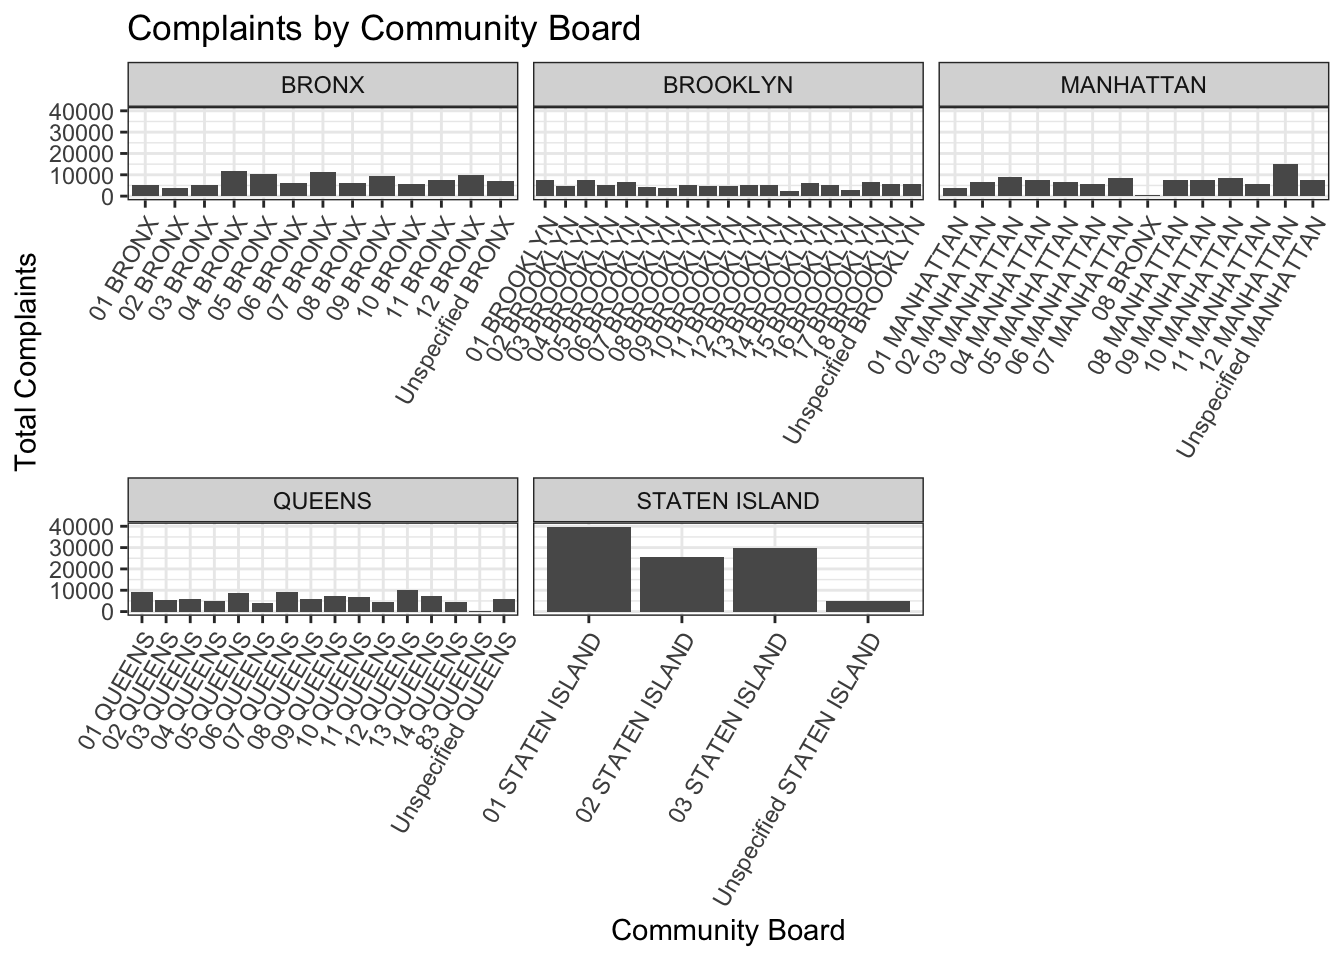
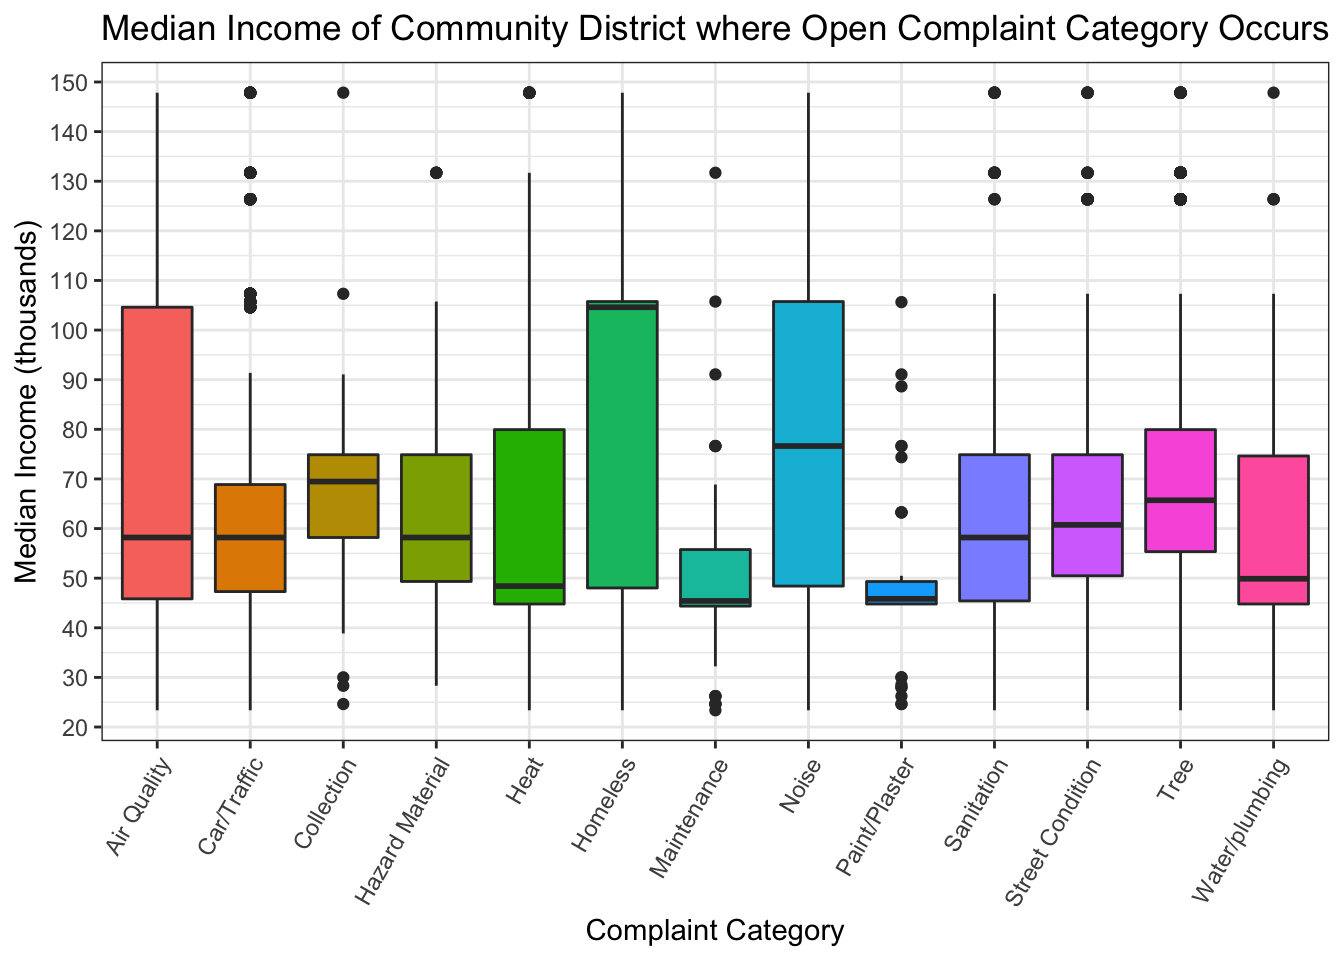
MM - added proportion open vs percent pop figure.

diff --git a/descript_stats_plots.html b/descript_stats_plots.html
@@ -438,7 +438,7 @@ $(document).ready(function () {
 <p>Key variables include: <code>year</code>, <code>borough</code>, <code>community_board</code>, <code>complaint_type</code>, and <code>status</code>.</p>
 <p>Newly added variables include:</p>
 <ol style="list-style-type: decimal">
-<li><p><code>complaint_simp</code> - based on key words, condenses complaint types into the following categories:’</p></li>
+<li><p><code>complaint_simp</code> - based on key words, condenses complaint types into the following categories: Air Quality, Car/Traffic, Collection, Hazard Material, Heat, Homeless, Maintenance, Noise, Paint/Plaster, Sanitation, Street Condition, Tree, and Water/plumbing.</p></li>
 <li><p><code>health_complaint</code> - binary yes (1) or no (0), based on health associated categories within <code>complaint_simp</code>.</p></li>
 <li><p><code>open_health_complaint</code> - binary categorization, either health complaint that is open (1), or non-health related complaint or closed health complaint (0).</p></li>
 <li><p><code>open_complaint</code> - binary categorization, closed <code>status</code> (0), open (1)</p></li>
@@ -506,8 +506,8 @@ $(document).ready(function () {
 </div>
 <div id="plots" class="section level1">
 <h1>Plots</h1>
-<div id="total-number-of-complaints-by-income-bracket" class="section level2">
-<h2>Total number of complaints by income bracket</h2>
+<div id="total-number-of-complaints-by-income-bracket" class="section level4">
+<h4>Total number of complaints by income bracket</h4>
 <pre class="r"><code># nyc_plots %&gt;% 
 #     filter(!is.na(income_bracket)) %&gt;% 
 #     group_by(income_bracket) %&gt;% 
@@ -533,9 +533,8 @@ nyc_plots %&gt;%
 <p><img src="descript_stats_plots_files/figure-html/unnamed-chunk-4-1.png" width="672" /></p>
 <p>Middle class income groups proportionally file the most complaints across all income brackets. The only exception is the Bronx, in which the proportion of 311 complaints is higher in the lowest income group.</p>
 </div>
-</div>
-<div id="proportion-of-unsolved-cases-by-income-bracket" class="section level1">
-<h1>Proportion of unsolved cases by income bracket</h1>
+<div id="proportion-of-unsolved-cases-by-income-bracket" class="section level4">
+<h4>Proportion of unsolved cases by income bracket</h4>
 <p>Proportion open:</p>
 <pre class="r"><code>p &lt;- nyc_plots %&gt;% 
     filter(!is.na(income_bracket)) %&gt;% 
@@ -555,8 +554,8 @@ p %&gt;% mutate(proportion = (open/closed)) %&gt;%
     theme(axis.text.x = element_text(angle = 60, hjust = 1))</code></pre>
 <p><img src="descript_stats_plots_files/figure-html/unnamed-chunk-5-1.png" width="672" /></p>
 </div>
-<div id="total-health-related-complaints-broken-down-by-income-bracket" class="section level1">
-<h1>Total Health related complaints broken down by income bracket</h1>
+<div id="total-health-related-complaints-broken-down-by-income-bracket" class="section level4">
+<h4>Total Health related complaints broken down by income bracket</h4>
 <pre class="r"><code>nyc_plots %&gt;% 
     filter(!is.na(income_bracket)) %&gt;% 
     group_by(income_bracket, borough, health_complaint) %&gt;% 
@@ -571,11 +570,30 @@ p %&gt;% mutate(proportion = (open/closed)) %&gt;%
     theme(axis.text.x = element_text(angle = 60, hjust = 1))</code></pre>
 <p><img src="descript_stats_plots_files/figure-html/unnamed-chunk-6-1.png" width="672" /></p>
 </div>
-<div id="proportion-health-related-complaints-open-broken-down-by-income-bracket" class="section level1">
-<h1>Proportion Health related complaints open broken down by income bracket:</h1>
+<div id="proportion-health-related-complaints-open-broken-down-by-income-bracket" class="section level4">
+<h4>Proportion Health related complaints open broken down by income bracket:</h4>
+<pre class="r"><code>h &lt;- nyc_plots %&gt;% 
+    filter(!is.na(income_bracket),
+           health_complaint == 1) %&gt;% 
+    group_by(income_bracket, borough, open_complaint) %&gt;% 
+    summarize(n = n()) %&gt;% 
+    pivot_wider(names_from = open_complaint, values_from = n) %&gt;% 
+    rename(closed = &#39;0&#39;,
+           open = &#39;1&#39;)
+
+h %&gt;% mutate(proportion = (open/closed)) %&gt;% 
+    ggplot(aes(x = income_bracket, y = proportion, fill = income_bracket)) +
+    geom_col() +
+    facet_wrap(~borough, scales = &quot;free_x&quot;) +
+    ggtitle(&quot;Proportion of Health Related Open Cases Within Each Income Bracket&quot;) +
+    xlab(&quot;Income Bracket&quot;) +
+    ylab(&quot;Proportion Open&quot;) +
+    theme(axis.text.x = element_text(angle = 60, hjust = 1))</code></pre>
+<pre><code>## Warning: Removed 1 rows containing missing values (position_stack).</code></pre>
+<p><img src="descript_stats_plots_files/figure-html/unnamed-chunk-7-1.png" width="672" /></p>
 </div>
-<div id="median-income-of-each-complaint-category" class="section level1">
-<h1>Median income of each complaint category:</h1>
+<div id="median-income-of-each-complaint-category" class="section level4">
+<h4>Median income of each complaint category:</h4>
 <pre class="r"><code>nyc_plots %&gt;% 
     filter(!is.na(median_income),
            !is.na(complaint_simp)) %&gt;% 
@@ -590,10 +608,27 @@ p %&gt;% mutate(proportion = (open/closed)) %&gt;%
     ylab(&quot;Median Income (thousands)&quot;) +
     xlab(&quot;Complaint Category&quot;) +
     ggtitle(&quot;Median Income of Community District where Complaint Category Occurs&quot;)</code></pre>
-<p><img src="descript_stats_plots_files/figure-html/unnamed-chunk-7-1.png" width="672" /></p>
+<p><img src="descript_stats_plots_files/figure-html/unnamed-chunk-8-1.png" width="672" /></p>
+<pre class="r"><code># open cases:
+
+nyc_plots %&gt;% 
+    filter(!is.na(median_income),
+           !is.na(complaint_simp),
+           open_complaint == 1) %&gt;% 
+    ggplot(aes(x = complaint_simp, 
+               y = (median_income/1000), 
+               fill = complaint_simp)) +
+    geom_boxplot() +
+    theme(axis.text.x = element_text(angle = 60, hjust = 1),
+          legend.position = &quot;none&quot;) +
+    scale_y_continuous(breaks = scales::pretty_breaks(n = 10)) +
+    ylab(&quot;Median Income (thousands)&quot;) +
+    xlab(&quot;Complaint Category&quot;) +
+    ggtitle(&quot;Median Income of Community District where Open Complaint Category Occurs&quot;)</code></pre>
+<p><img src="descript_stats_plots_files/figure-html/unnamed-chunk-8-2.png" width="672" /></p>
 </div>
-<div id="not-to-be-included" class="section level1">
-<h1>Not to be included:</h1>
+<div id="not-to-be-included" class="section level4">
+<h4>Not to be included:</h4>
 <p>Total complaints within each neighborhood of each borough:</p>
 <pre class="r"><code>nyc_plots %&gt;% 
     filter(!is.na(area_name)) %&gt;% 
@@ -606,7 +641,7 @@ p %&gt;% mutate(proportion = (open/closed)) %&gt;%
     theme(axis.text.x = element_text(angle = 60, hjust = 1)) +
     ggtitle(&quot;Complaints by Neighborhood&quot;) +
     facet_wrap(~borough, scales = &quot;free_x&quot;)</code></pre>
-<p><img src="descript_stats_plots_files/figure-html/unnamed-chunk-8-1.png" width="672" /></p>
+<p><img src="descript_stats_plots_files/figure-html/unnamed-chunk-9-1.png" width="672" /></p>
 <pre class="r"><code>nyc_plots %&gt;% 
     filter(!is.na(community_board)) %&gt;% 
     group_by(community_board, borough) %&gt;% 
@@ -619,7 +654,7 @@ p %&gt;% mutate(proportion = (open/closed)) %&gt;%
     theme(axis.text.x = element_text(angle = 60, hjust = 1)) +
     ggtitle(&quot;Complaints by Community Board&quot;) +
     facet_wrap(~borough, scales = &quot;free_x&quot;)</code></pre>
-<p><img src="descript_stats_plots_files/figure-html/unnamed-chunk-8-2.png" width="672" /></p>
+<p><img src="descript_stats_plots_files/figure-html/unnamed-chunk-9-2.png" width="672" /></p>
 <p>other med income plot:</p>
 <pre class="r"><code># 
 # nyc_plots %&gt;% 
@@ -641,16 +676,71 @@ p %&gt;% mutate(proportion = (open/closed)) %&gt;%
 #            complaint_simp = fct_reorder(complaint_simp, 
 #                                         proportion, 
 #                                         .desc = TRUE)) %&gt;% </code></pre>
-<ul>
-<li>number unsolved (open) cases versus income bracket - look at health complaints.</li>
-<li>number of unsolved (open) cases within each neighborhood with color representing proportion black, hispanic</li>
-</ul>
+</div>
 </div>
 <div id="final-plots" class="section level1">
 <h1>Final Plots:</h1>
-<p>Total complaints broken down by neighborhood and borough? –&gt; Plots broken down by community district, incorporate proportions of race/population</p>
-<p>proportion open cases across each income group faceted by borough proportion open health cases across each income group faceted by borough</p>
-<p>density plot of number of days to close by income group - ??</p>
+<div id="proportion-of-unsolved-cases-by-income-bracket-1" class="section level2">
+<h2>Proportion of unsolved cases by income bracket</h2>
+<pre class="r"><code>p &lt;- nyc_plots %&gt;% 
+    filter(!is.na(income_bracket)) %&gt;% 
+    group_by(income_bracket, borough, open_complaint) %&gt;% 
+    summarize(n = n()) %&gt;% 
+    pivot_wider(names_from = open_complaint, values_from = n) %&gt;% 
+    rename(closed = &#39;0&#39;,
+           open = &#39;1&#39;)
+
+p %&gt;% mutate(proportion = (open/closed)) %&gt;% 
+    ggplot(aes(x = income_bracket, y = proportion, fill = income_bracket)) +
+    geom_col() +
+    facet_wrap(~borough, scales = &quot;free_x&quot;) +
+    ggtitle(&quot;Proportion of Open Cases Within Each Income Bracket&quot;) +
+    xlab(&quot;Income Bracket&quot;) +
+    ylab(&quot;Proportion Open&quot;) +
+    theme(axis.text.x = element_text(angle = 60, hjust = 1))</code></pre>
+<p><img src="descript_stats_plots_files/figure-html/unnamed-chunk-11-1.png" width="672" /></p>
+</div>
+<div id="median-income-of-each-complaint-category-1" class="section level2">
+<h2>Median income of each complaint category:</h2>
+<pre class="r"><code>nyc_plots %&gt;% 
+    filter(!is.na(median_income),
+           !is.na(complaint_simp)) %&gt;% 
+    mutate(complaint_simp = fct_reorder(complaint_simp, median_income)) %&gt;% 
+    ggplot(aes(x = complaint_simp, 
+               y = (median_income/1000), 
+               fill = complaint_simp)) +
+    geom_boxplot() +
+    theme(axis.text.x = element_text(angle = 60, hjust = 1),
+          legend.position = &quot;none&quot;) +
+    scale_y_continuous(breaks = scales::pretty_breaks(n = 10)) +
+    ylab(&quot;Median Income (thousands)&quot;) +
+    xlab(&quot;Complaint Category&quot;) +
+    ggtitle(&quot;Median Income of Community District where Complaint Category Occurs&quot;)</code></pre>
+<p><img src="descript_stats_plots_files/figure-html/unnamed-chunk-12-1.png" width="672" /></p>
+</div>
+<div id="plot-of-percent-race-plotted-against-proportion-open" class="section level2">
+<h2>plot of percent race plotted against proportion open:</h2>
+<pre class="r"><code>r &lt;- nyc_plots %&gt;% 
+    pivot_longer(cols = per_black_nh:per_other, names_to = &quot;race&quot;, values_to = &quot;percent_pop&quot;) %&gt;% 
+    filter(!is.na(race),
+           !is.na(percent_pop)) %&gt;% 
+    group_by(race, borough, percent_pop, open_complaint) %&gt;% 
+    summarize(n = n()) %&gt;% 
+    pivot_wider(names_from = open_complaint, values_from = n) %&gt;% 
+    rename(closed = &#39;0&#39;,
+           open = &#39;1&#39;)
+
+r %&gt;% mutate(proportion = (open/(open + closed))) %&gt;% 
+    ggplot(aes(x = percent_pop, y = proportion, color = race)) +
+    geom_point() +
+    geom_smooth(se = FALSE) +
+    xlab(&quot;Percentage of Community District Population&quot;) +
+    ylab(&quot;Proportion Open&quot;) +
+    ggtitle(&quot;Unresolved Complaints as a Function of Neighborhood Population&quot;)</code></pre>
+<pre><code>## `geom_smooth()` using method = &#39;loess&#39; and formula &#39;y ~ x&#39;</code></pre>
+<p><img src="descript_stats_plots_files/figure-html/unnamed-chunk-13-1.png" width="672" /></p>
+<p>density plot of number of days to close by income group or pop proportions?</p>
+</div>
 </div>
 
 
